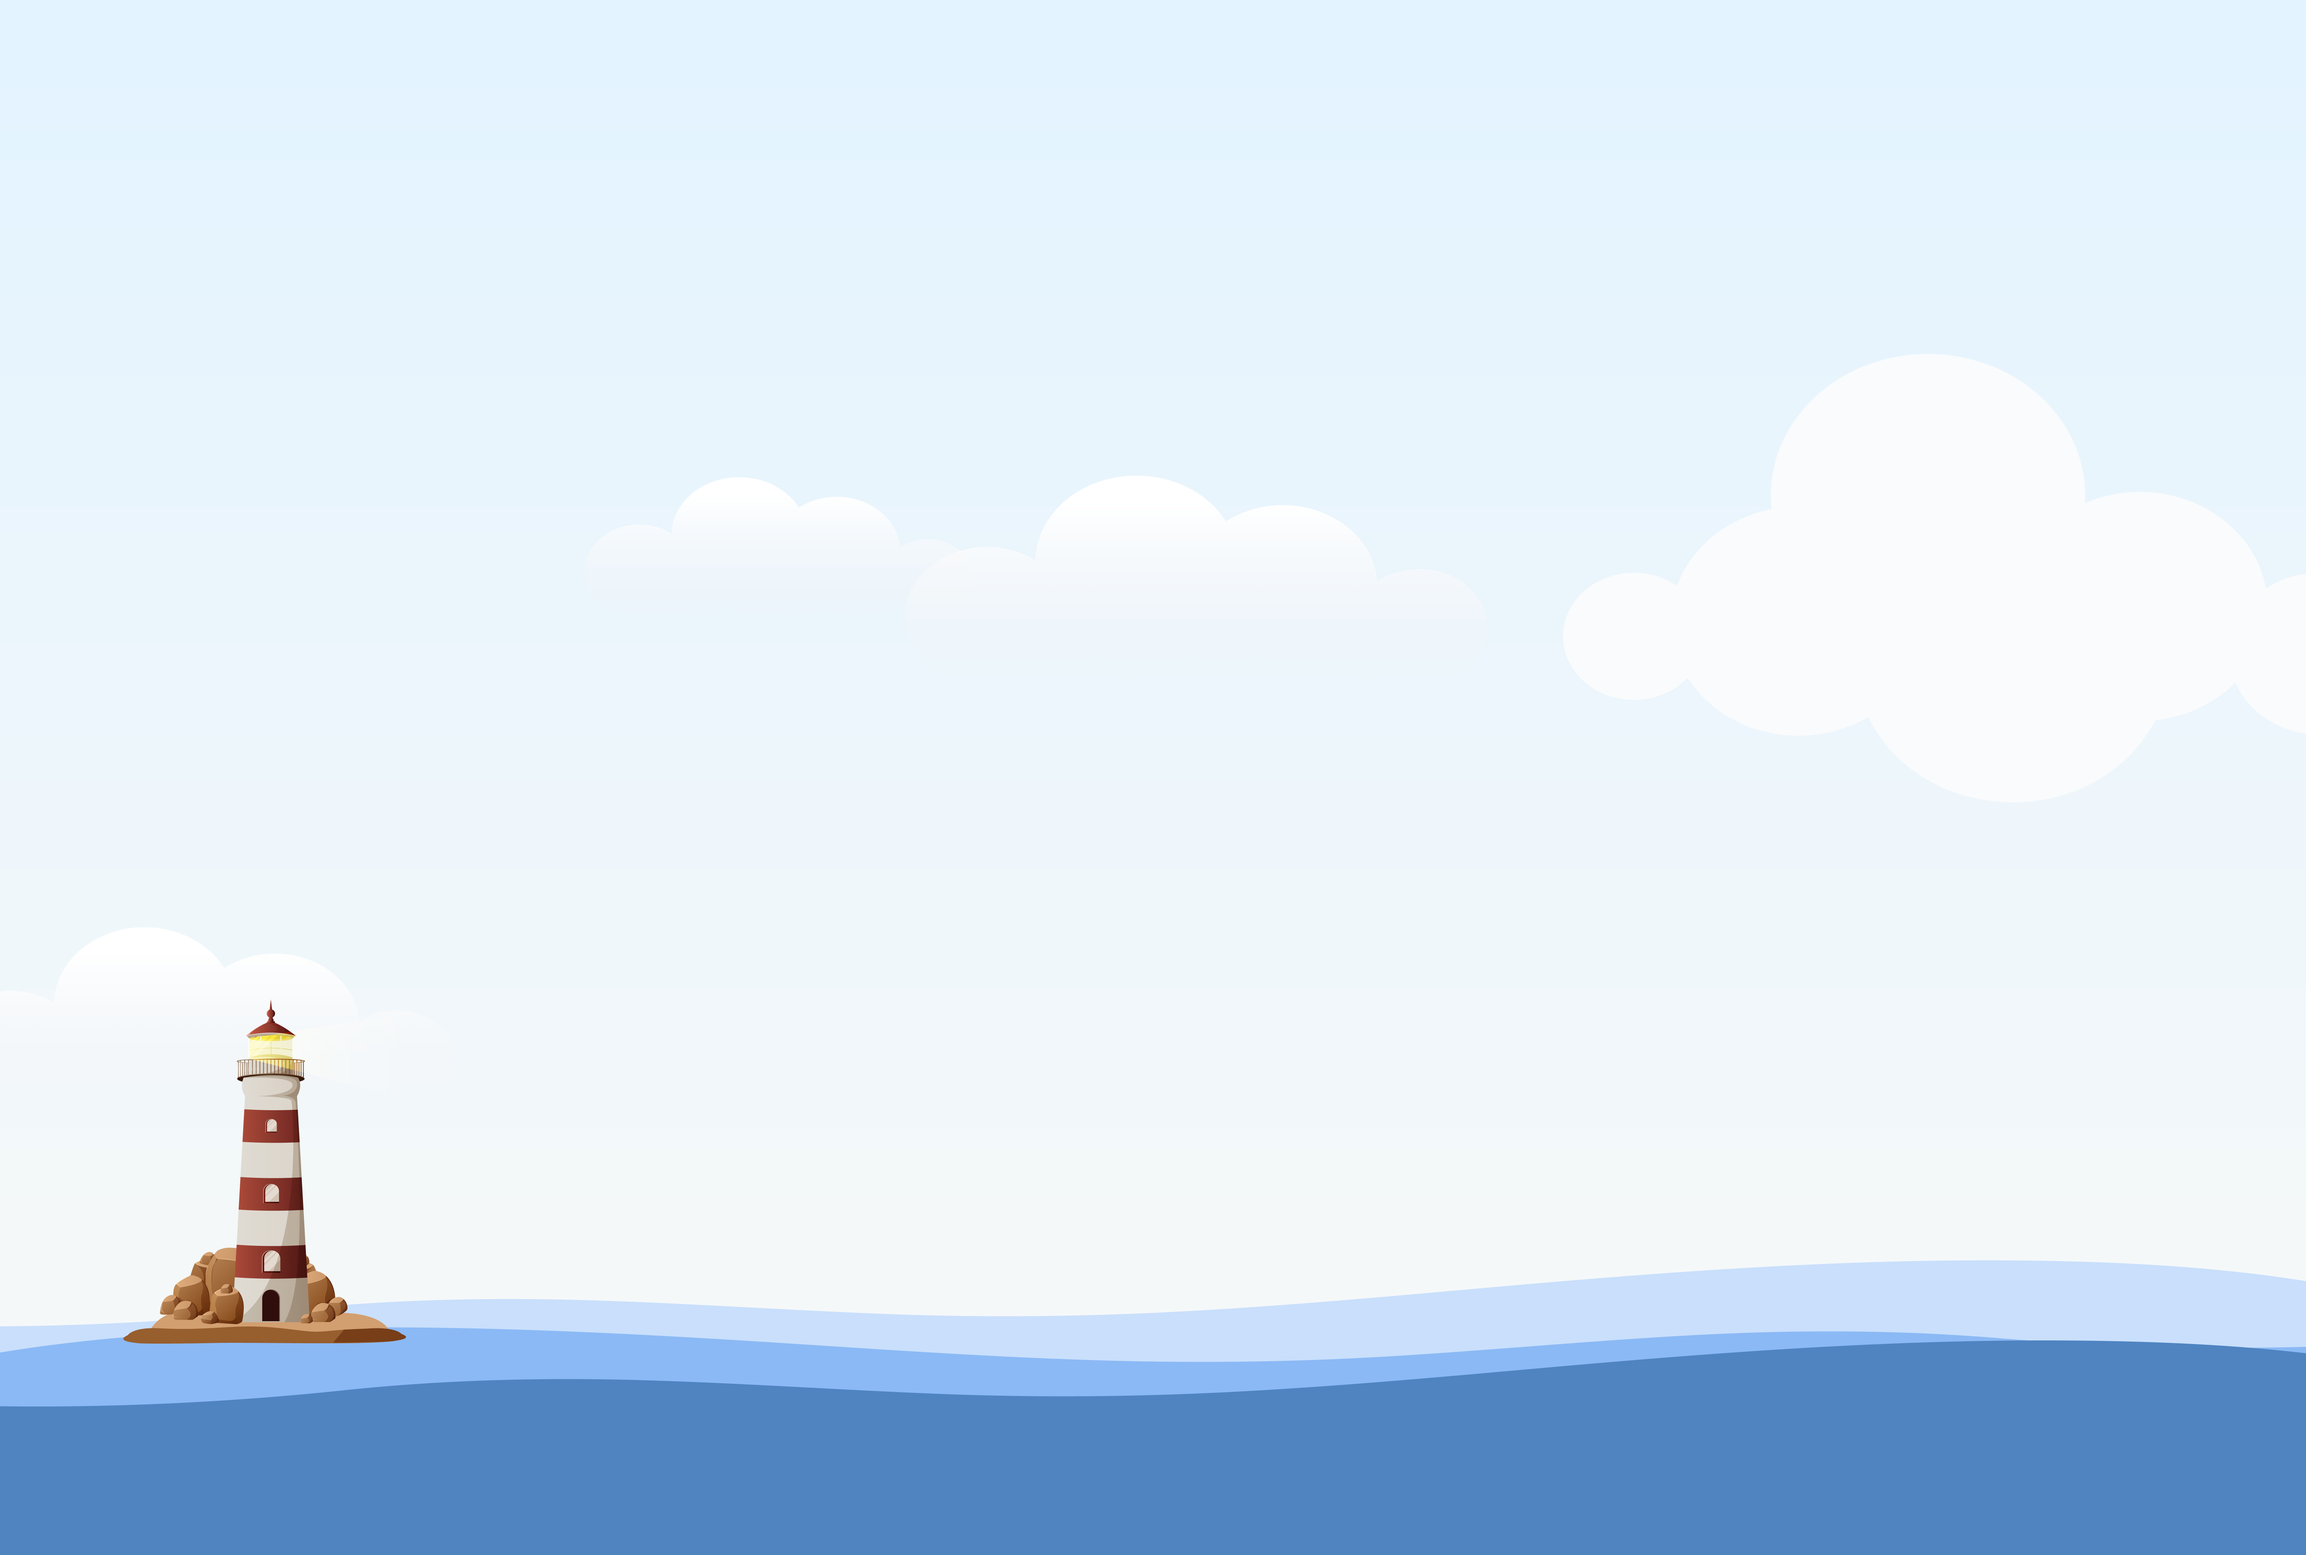
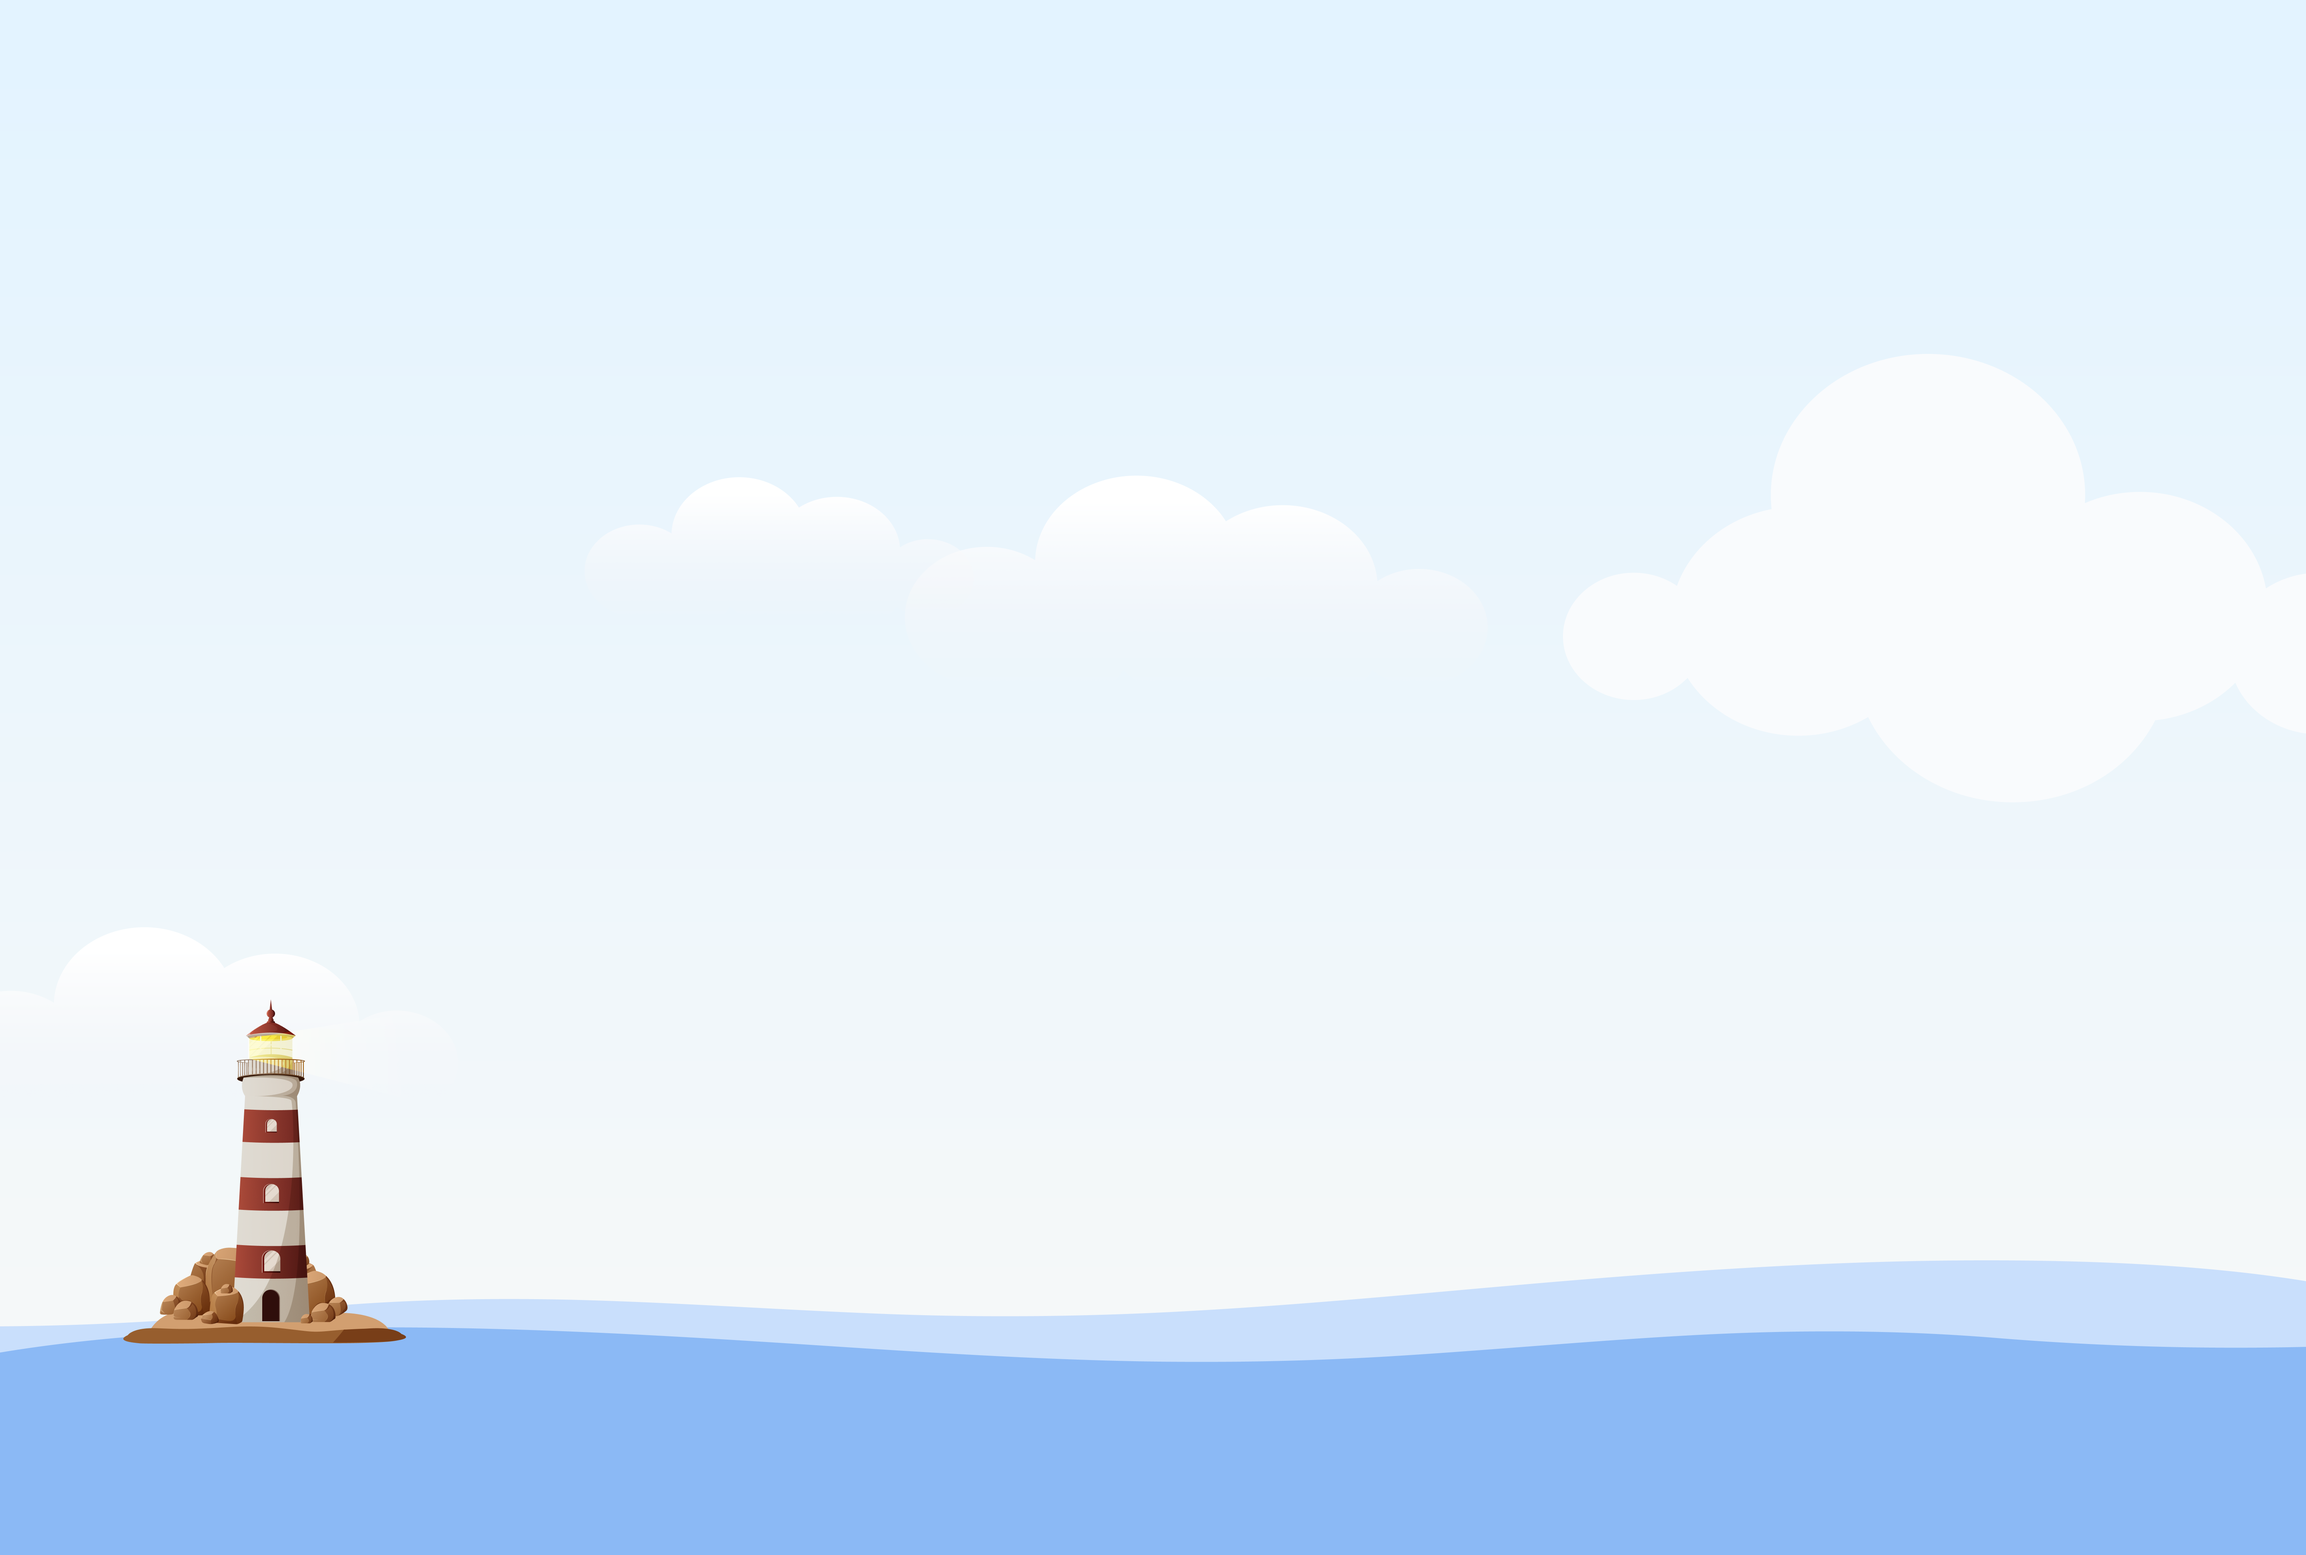
fix: waves animation

Changed region(s): [[0.0, 0.8411, 1.0, 1.0]]

diff --git a/nextjs-app/components/pages/main/Banner.tsx b/nextjs-app/components/pages/main/Banner.tsx
@@ -4,107 +4,119 @@ import RegisterNavigatorButton from "@/components/common/Button/RegisterNavigato
 import RegisterSailorButton from "@/components/common/Button/RegisterSailorButton";
 import CountdownTimer from "@/components/common/CountdownTimer";
 
-const Banner = () => {
-  return (
-    <div
-      className={twMerge(
-        "relative pt-11",
-        "w-full h-[calc(100vh-80px)] md:h-[calc(100vh-88px)] lg:h-[calc(100vh-94px)]"
-      )}
-    >
-      {/** Text Area */}
-      <div className="flex justify-center lg:justify-start">
-        <div className="lg:ml-[144px] flex flex-col items-center lg:items-start">
-          <div className="text-center lg:text-start text-h1 text-neutral-10 mb-4">
-            <div>在職涯地圖上</div>
-            <div>點亮自己的航線</div>
-          </div>
-          <div>
-            <CountdownTimer />
-          </div>
-          <div className="w-fit flex flex-col justify-center gap-4 mt-7">
-            <RegisterSailorButton />
-            <RegisterNavigatorButton />
-          </div>
+const Banner = () => (
+  <div
+    className={twMerge(
+      "relative pt-11",
+      "w-full h-[calc(100vh-80px)] md:h-[calc(100vh-88px)] lg:h-[calc(100vh-94px)]"
+    )}
+  >
+    {/** Text Area */}
+    <div className="flex justify-center lg:justify-start">
+      <div className="lg:ml-[144px] flex flex-col items-center lg:items-start">
+        <div className="text-center lg:text-start text-h1 text-neutral-10 mb-4">
+          <div>在職涯地圖上</div>
+          <div>點亮自己的航線</div>
+        </div>
+        <div>
+          <CountdownTimer />
+        </div>
+        <div className="w-fit flex flex-col justify-center gap-4 mt-7">
+          <RegisterSailorButton />
+          <RegisterNavigatorButton />
         </div>
       </div>
-      {/** Animation elements for desktop */}
-      <div
-        className={twMerge(
-          "hidden lg:block",
-          "absolute bottom-8 right-0 -z-30",
-          "w-[calc(70vh/614*1003)] h-[70vh]"
-        )}
-      >
+    </div>
+    {/** Animation elements for desktop */}
+    <div className="absolute w-full bottom-0 overflow-hidden -z-10">
+      <div className="relative w-[calc(100vw+40px)] h-[136px]">
         <Image
-          src="/images/index-banner/boat.png"
-          alt="boat"
+          src="/images/index-banner/wave-1.png"
+          alt="wave"
           fill
           className={twMerge(
             "hidden lg:block",
-            "w-full h-full object-contain object-right-bottom",
-            "motion-translate-y-loop-[15px] motion-duration-2000"
+            "w-full h-full object-cover",
+            "motion-translate-x-loop-[-20px] motion-duration-1000 motion-ease-in-out"
           )}
         />
       </div>
-      <div className="absolute w-full bottom-0 overflow-hidden -z-20">
-        <div className="relative w-[calc(100vw+40px)] h-[136px]">
-          <Image
-            src="/images/index-banner/wave-1.png"
-            alt="wave"
-            fill
-            className={twMerge(
-              "hidden lg:block",
-              "w-full h-full object-cover",
-              "motion-translate-x-loop-[-25px] motion-duration-1000"
-            )}
-          />
-        </div>
+    </div>
+    <div className="absolute w-full bottom-[5px] overflow-hidden -z-20">
+      <div className="relative w-[calc(100vw+60px)] h-[136px]">
+        <Image
+          src="/images/index-banner/wave-2.png"
+          alt="wave"
+          fill
+          className={twMerge(
+            "hidden lg:block",
+            "w-full h-full object-cover",
+            "motion-translate-x-loop-[-40px] motion-duration-1500 motion-ease-in-out"
+          )}
+        />
       </div>
-      <div className="absolute w-full bottom-[5px] overflow-hidden -z-30">
-        <div className="relative w-[calc(100vw+60px)] h-[136px]">
-          <Image
-            src="/images/index-banner/wave-2.png"
-            alt="wave"
-            fill
-            className={twMerge(
-              "hidden lg:block",
-              "w-full h-full object-cover",
-              "motion-translate-x-loop-[-50px] motion-duration-2000"
-            )}
-          />
-        </div>
+    </div>
+    <div className="absolute w-full bottom-[20px] overflow-hidden -z-30">
+      <div className="relative w-[calc(100vw+60px)] h-[136px]">
+        <Image
+          src="/images/index-banner/wave-3.png"
+          alt="wave"
+          fill
+          className={twMerge(
+            "hidden lg:block",
+            "w-full h-full object-cover",
+            "motion-translate-x-loop-[-60px] motion-duration-2000 motion-ease-in-out"
+          )}
+        />
       </div>
-      {/** Background Image */}
+    </div>
+    <div
+      className={twMerge(
+        "hidden lg:block",
+        "absolute bottom-8 right-0 -z-30",
+        "w-[calc(70vh/614*1003)] h-[70vh]"
+      )}
+    >
       <Image
-        src="/images/index-banner/background-lg.png"
-        alt="background-image"
+        src="/images/index-banner/boat.png"
+        alt="boat"
         fill
         className={twMerge(
           "hidden lg:block",
-          "absolute w-full h-full object-cover object-left-bottom -z-40"
-        )}
-      />
-      <Image
-        src="/images/index-banner/background-md.png"
-        alt="background-image"
-        fill
-        className={twMerge(
-          "hidden md:block lg:hidden",
-          "absolute w-full h-full object-cover object-left-bottom -z-40"
-        )}
-      />
-      <Image
-        src="/images/index-banner/background-sm.png"
-        alt="background-image"
-        fill
-        className={twMerge(
-          "md:hidden",
-          "absolute w-full h-full object-cover object-left-bottom -z-40"
+          "w-full h-full object-contain object-right-bottom",
+          "motion-translate-y-loop-[8px] motion-duration-[3000ms] motion-ease-in-out"
         )}
       />
     </div>
-  );
-};
+    {/** Background Image */}
+    <Image
+      src="/images/index-banner/background-lg.png"
+      alt="background-image"
+      fill
+      className={twMerge(
+        "hidden lg:block",
+        "absolute w-full h-full object-cover object-left-bottom -z-40"
+      )}
+    />
+    <Image
+      src="/images/index-banner/background-md.png"
+      alt="background-image"
+      fill
+      className={twMerge(
+        "hidden md:block lg:hidden",
+        "absolute w-full h-full object-cover object-left-bottom -z-40"
+      )}
+    />
+    <Image
+      src="/images/index-banner/background-sm.png"
+      alt="background-image"
+      fill
+      className={twMerge(
+        "md:hidden",
+        "absolute w-full h-full object-cover object-left-bottom -z-40"
+      )}
+    />
+  </div>
+);
 
 export default Banner;
